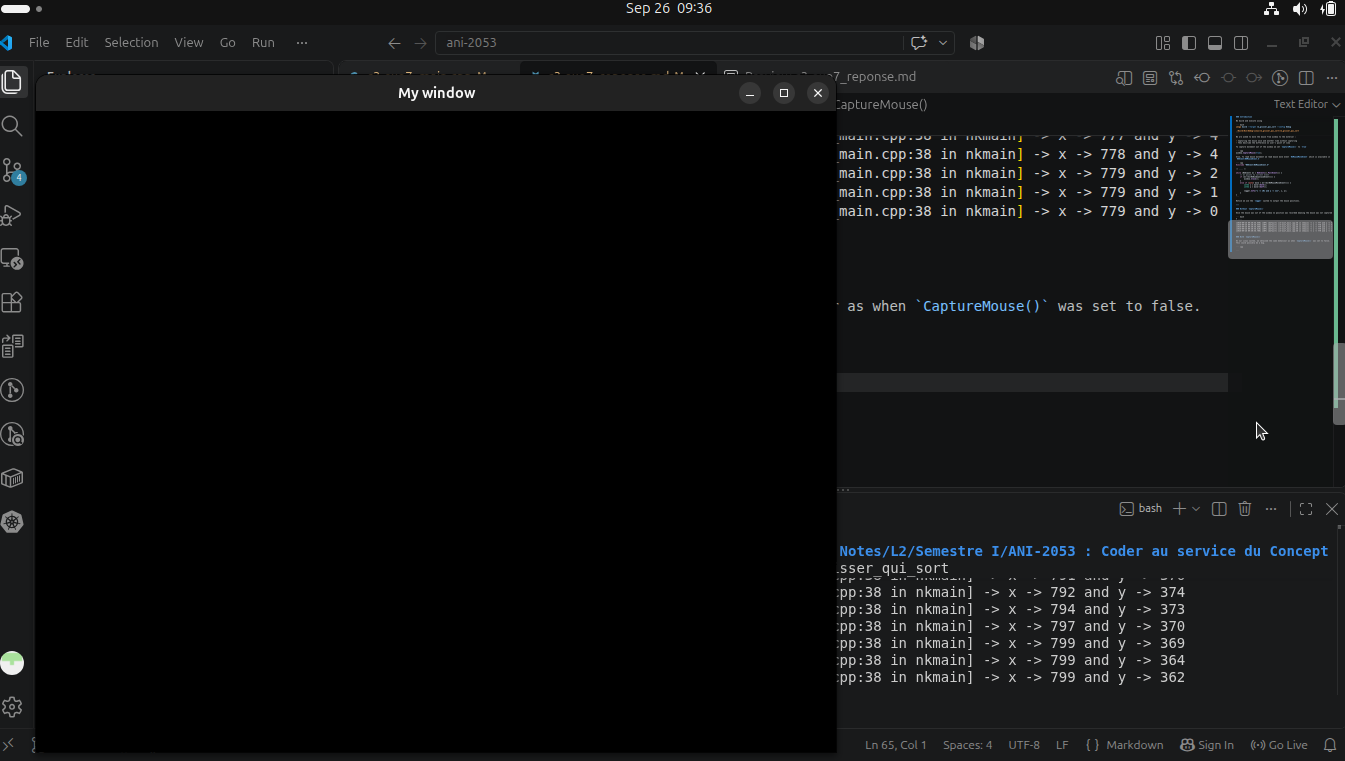
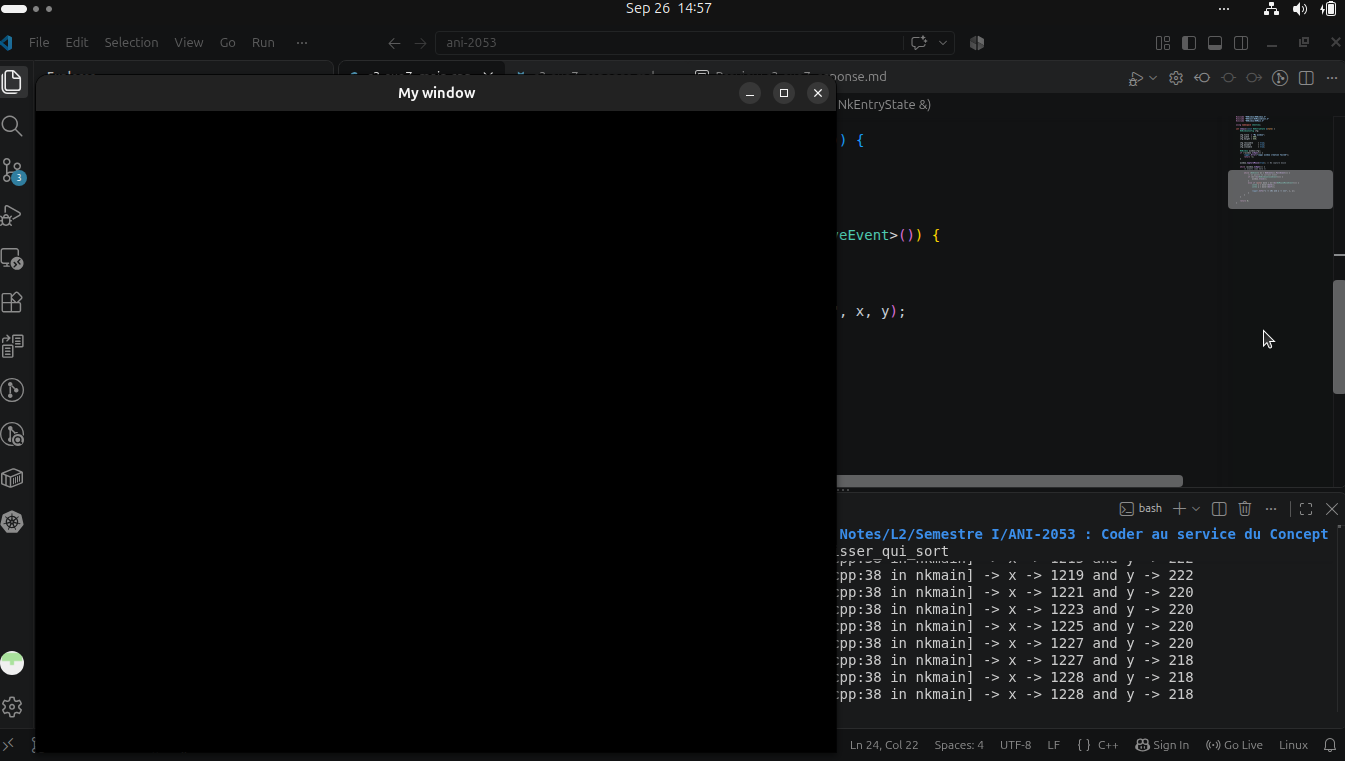
Correction1 Chap-03/Exo-03-1

diff --git a/chapitre-03/exo7-le_glisser_qui_sort/c3-exo7_reponse.md b/chapitre-03/exo7-le_glisser_qui_sort/c3-exo7_reponse.md
@@ -13,7 +13,7 @@ We are asked to move the mouse from window to the exterior :
 - Capturing the mouse once and another time without capturing
 - Then describe the difference on user's point of view 
 
-To capture mouse movement out of window we set `CaptureMouse()` to `true`
+To capture mouse movement (`right-click` and `drag`) out of window we set `CaptureMouse()` to `true`
 
 ``` cpp
 window.CaptureMouse(true);
@@ -45,28 +45,26 @@ Notice we use the `logger` system to output the mouse movement.
 
 ### Without `CaptureMouse()`
 
-Once the mouse was out of the window no mouse movement was recorded meaning the mouse was not captured
+Once we `right-clicked and draged` out of the window mouse movement was still recorded and logged at the terminal. This behaviour was not expected so we can imagine it's a bug.
 
 ``` bash
-# ....
-
-[2026-09-26 09:30:46.550] [INF] [default] [c3-exo7_main.cpp:38 in nkmain] -> x -> 777 and y -> 4
-[2026-09-26 09:30:46.558] [INF] [default] [c3-exo7_main.cpp:38 in nkmain] -> x -> 778 and y -> 4
-[2026-09-26 09:30:46.580] [INF] [default] [c3-exo7_main.cpp:38 in nkmain] -> x -> 779 and y -> 2
-[2026-09-26 09:30:46.610] [INF] [default] [c3-exo7_main.cpp:38 in nkmain] -> x -> 779 and y -> 1
-[2026-09-26 09:30:46.700] [INF] [default] [c3-exo7_main.cpp:38 in nkmain] -> x -> 779 and y -> 0
+[2026-09-26 15:10:34.645] [INF] [default] [c3-exo7_main.cpp:38 in nkmain] -> x -> 1070 and y -> 301
+[2026-09-26 15:10:34.652] [INF] [default] [c3-exo7_main.cpp:38 in nkmain] -> x -> 1070 and y -> 303
+[2026-09-26 15:10:34.660] [INF] [default] [c3-exo7_main.cpp:38 in nkmain] -> x -> 1070 and y -> 305
+[2026-09-26 15:10:34.667] [INF] [default] [c3-exo7_main.cpp:38 in nkmain] -> x -> 1070 and y -> 306
+[2026-09-26 15:10:34.675] [INF] [default] [c3-exo7_main.cpp:38 in nkmain] -> x -> 1070 and y -> 309
 ```
 
 ### With `CaptureMouse()`
 
-On our Linux system, we obtained the same behaviour as when `CaptureMouse()` was set to false. This could possibly be a bug.
+On our Linux system, when `CaptureMouse()` was set to true we could `right-click` and `drag` with our mouse from the window to it's exterior and the movement was recorded.
 
 ![](output1.png "")
 
-Notice where the cursor was placed and see the mouse movement was not consoled/recorded.
+Notice where the cursor was placed and see the mouse movement was consoled/recorded.
 
 ---
 
 ### The User's Point of View
 
-When `CaptureMouse()` is set to `true`, Users will notice both mouse movements made in and out of the window will be recorded by the window and When `false` only those made within the window will be recorded.
+With `CaptureMouse()` set to `true`, Users will notice both mouse movements made in and out of the window will be recorded by the window and When `false` only those made within the window will be recorded.
